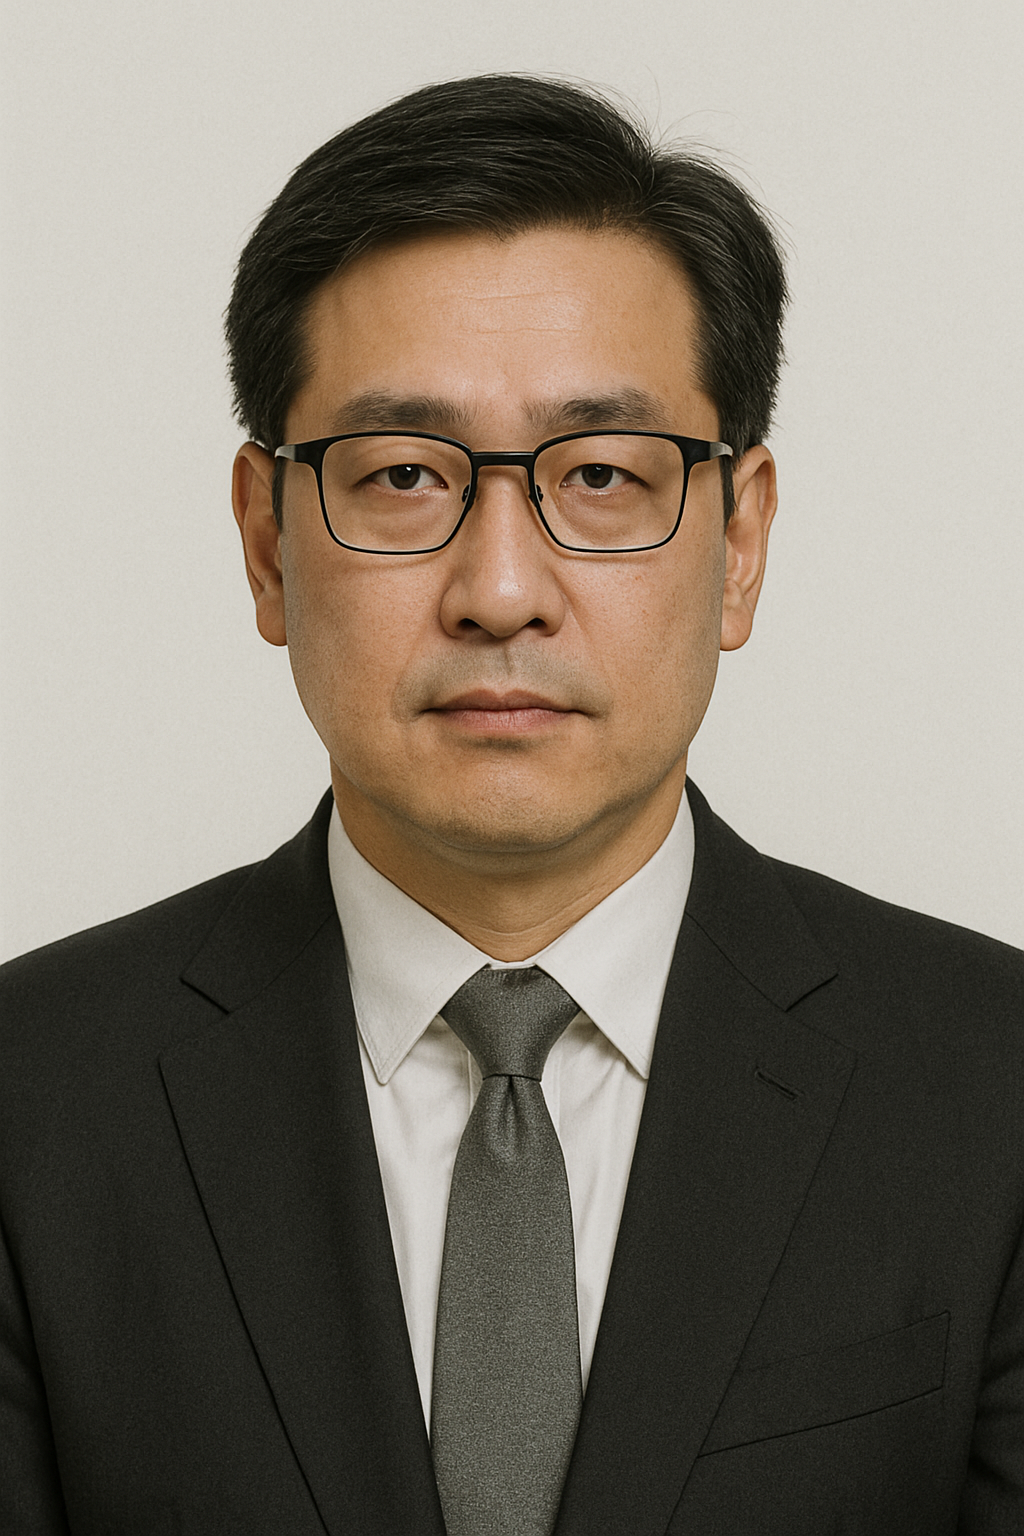
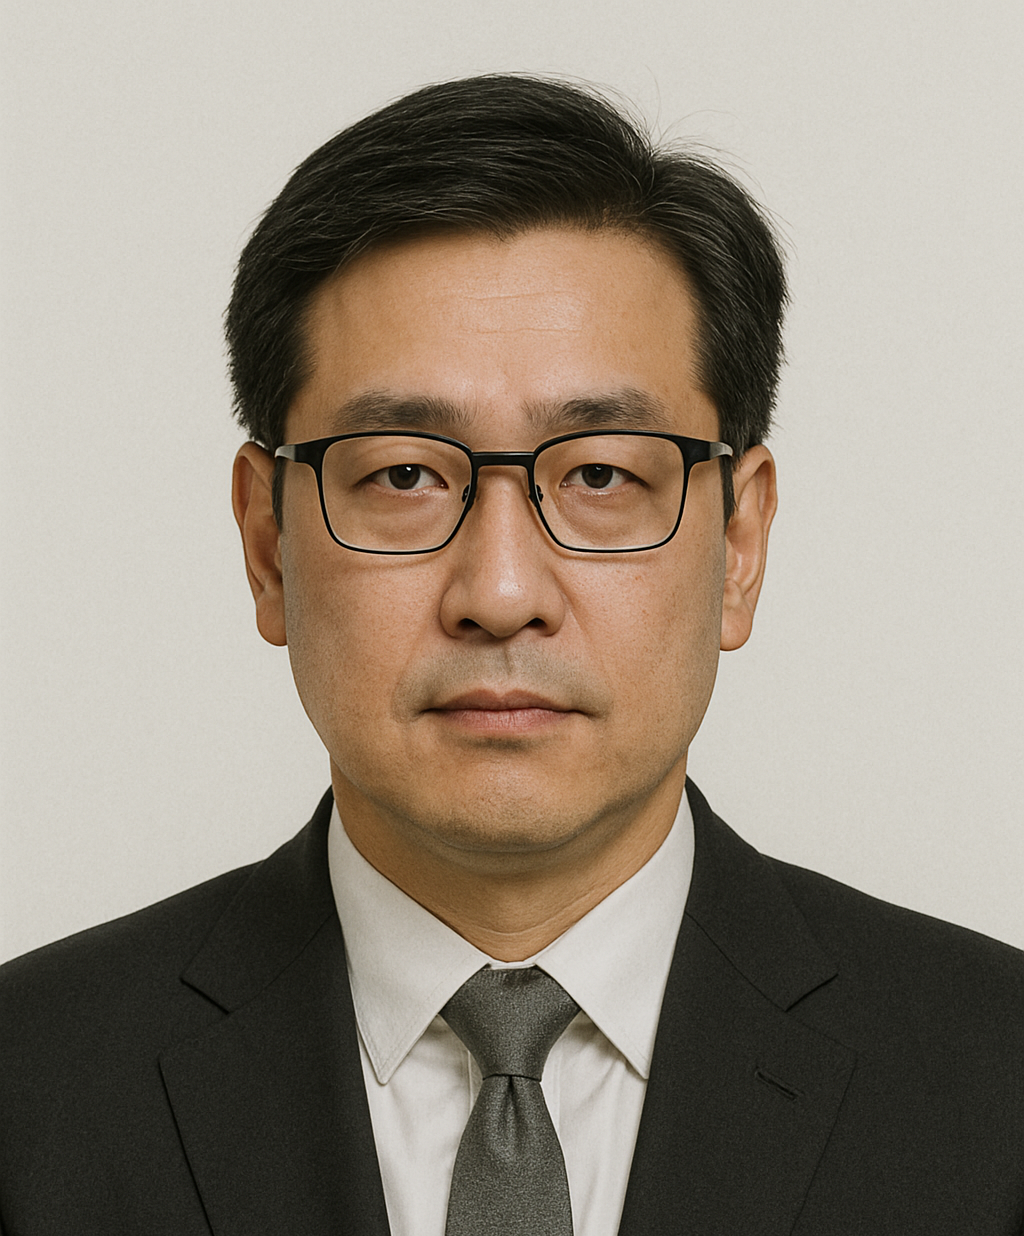
[fix]: cropped client image

diff --git a/app/test.py b/app/test.py
@@ -1,40 +1,7 @@
-# FastAPI 앱 실행 엔트리포인트
-from fastapi import FastAPI
-from fastapi.middleware.cors import CORSMiddleware
-from app.api import customer, company, prediction, report, sentiment, market, summarize, keyword_extractor, stock_chart, return_analysis, industry
-from app.api.intention import router as intention_router
+from PIL import Image
 
-app = FastAPI(
-    docs_url="/api/v1/docs",
-    redoc_url="/api/v1/redoc",
-    openapi_url="/api/v1/openapi.json"
-)
-
-# CORS 설정: 프론트엔드(React) 개발 서버에서 접근 허용
-app.add_middleware(
-    CORSMiddleware,
-    allow_origins=[
-        "http://localhost:3000",
-        "http://localhost:3001" 
-    ],
-    allow_credentials=True,
-    allow_methods=["*"],
-    allow_headers=["*"],
-)
-
-app.include_router(customer.router, prefix="/api/v1")
-app.include_router(company.router, prefix="/api/v1")
-app.include_router(prediction.router, prefix="/api/v1")
-app.include_router(report.router, prefix="/api/v1")
-app.include_router(sentiment.router, prefix="/api/v1")  # sentiment 라우터 prefix 추가
-app.include_router(market.router, prefix="/api/v1")  # market 라우터 prefix 추가
-app.include_router(summarize.router, prefix="/api/v1")  # summarize 라우터 prefix 추가
-app.include_router(keyword_extractor.router, prefix="/api/v1")  # keyword_extractor 라우터 prefix 추가
-app.include_router(stock_chart.router, prefix="/api/v1")  # stock_chart 라우터 prefix 추가
-app.include_router(return_analysis.router, prefix="/api/v1", tags=["return-analysis"])
-app.include_router(intention_router, prefix="/api/v1")  # intention_api 라우터 prefix 추가
-app.include_router(industry.router, prefix="/api/v1")  # industry 라우터 prefix 추가
-
-@app.get("/")
-def read_root():
-    return {"Hello": "World"}
+img = Image.open('/Users/hyungjuncho/Documents/SNU_BFA/KB_capstone/KB_PB_Agent_AI_JinShiWang/frontend/src/assets/client_profile/천소연2.png')
+width, height = img.size
+# 하단 20픽셀 제거 예시
+cropped = img.crop((0, 0, width, height - 300))
+cropped.save('/Users/hyungjuncho/Documents/SNU_BFA/KB_capstone/KB_PB_Agent_AI_JinShiWang/frontend/src/assets/client_profile/천소연.png')
